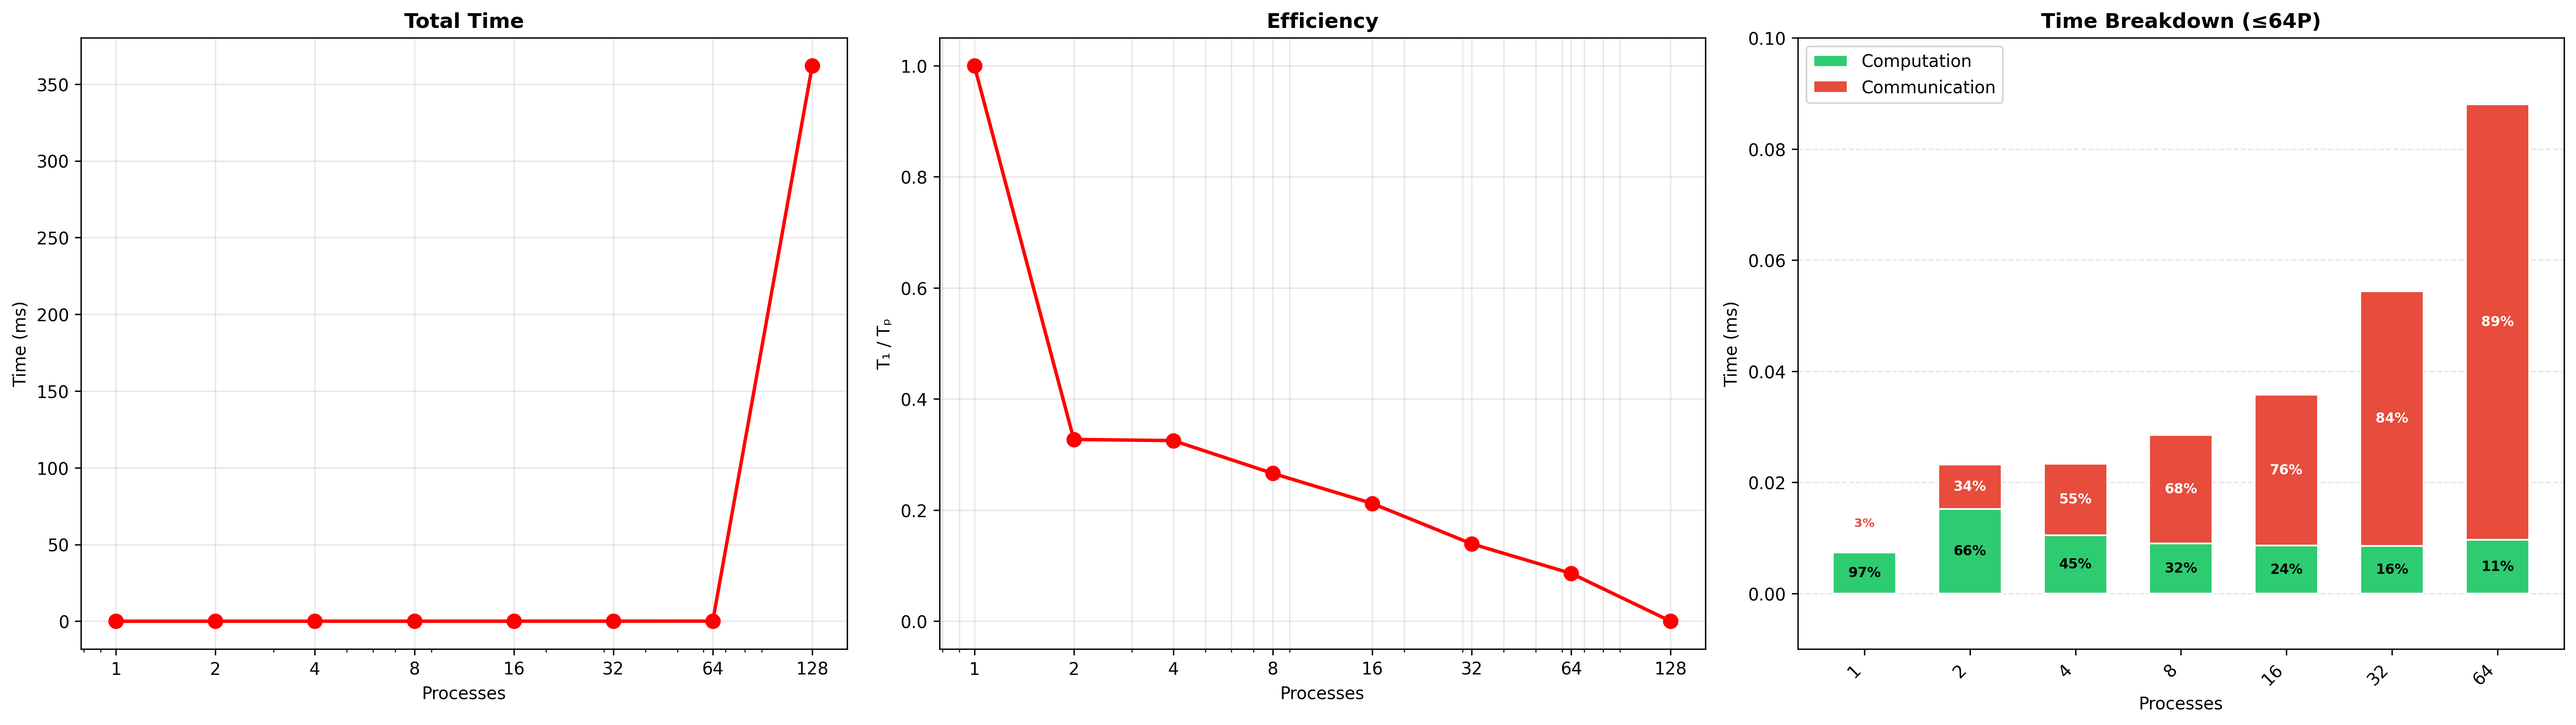
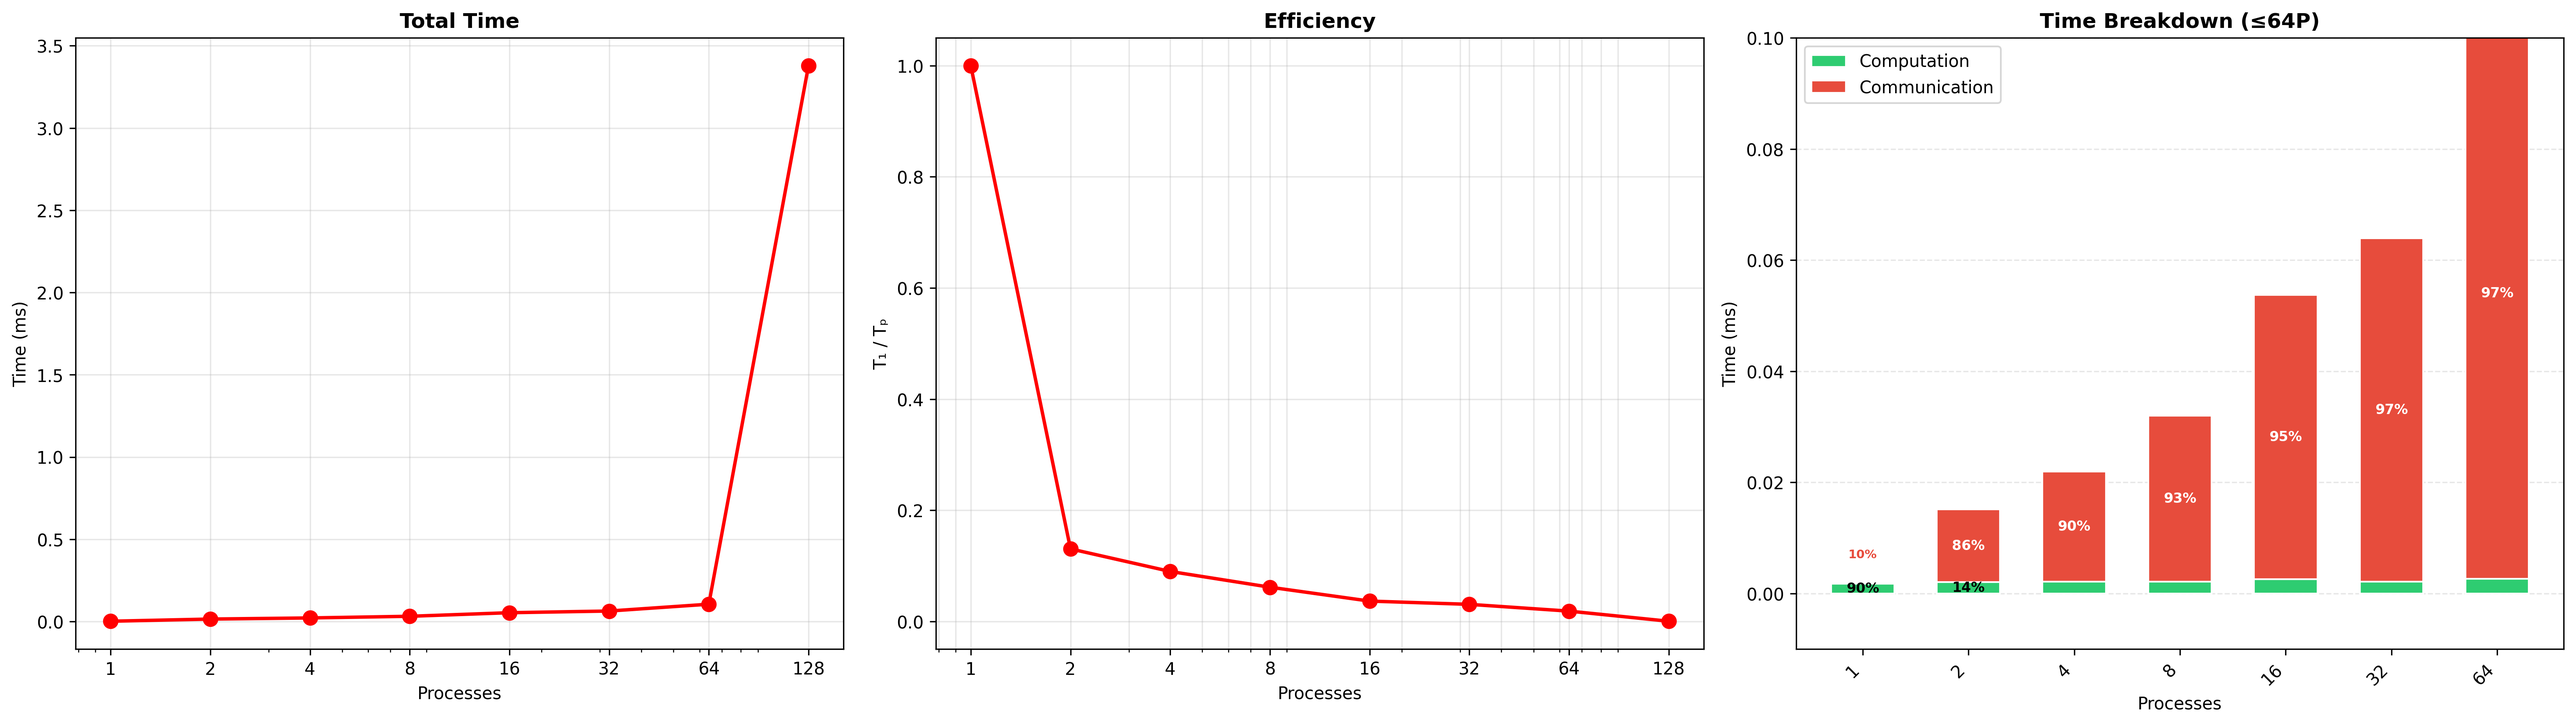
code optimization

diff --git a/D2/src/main.c b/D2/src/main.c
@@ -9,11 +9,27 @@
 #include <mpi.h>
 #include <time.h>
 
-int main(int argc, char *argv[]){
-    double start, end;
-    double time_comm = 0.0;
-    double time_comp = 0.0;
+// for qsort
+int compare_doubles(const void *a, const void *b) {
+    double diff = (*(double*)a - *(double*)b);
+    if (diff < 0) return -1;
+    if (diff > 0) return 1;
+    return 0;
+}
 
+// calculate percentile from sorted array 
+double percentile(double *sorted_array, int n, double p) {
+    double index = p * (n - 1);
+    int lower = (int)index;
+    int upper = lower + 1;
+    
+    if (upper >= n) return sorted_array[n-1];
+    
+    double weight = index - lower;
+    return sorted_array[lower] * (1.0 - weight) + sorted_array[upper] * weight;
+}
+
+int main(int argc, char *argv[]){
     int rank, size;
 
     MPI_Init(&argc, &argv);
@@ -80,42 +96,44 @@ int main(int argc, char *argv[]){
     
     MPI_Barrier(MPI_COMM_WORLD); 
 
+
+    int total_ghosts = ghost_get_total_ghosts(&gp);
+    double *x_extended = (double*)malloc((local.my_M + total_ghosts) * sizeof(double));
+
     // cache warmup
     int warmup = 3;
     for(int i=0; i<warmup; i++){
-        //old version 
-        // ghost_exchange_values(&gp, v_local, MPI_COMM_WORLD);
-        //ghost_local_SpMV_old(local.my_M, local.my_row_pnt, local.my_cols, local.my_vals, &gp, v_local, y);
-
-        //new
-        double *x_extended;
-        ghost_build_extended_vector(v_local, &x_extended, &gp, local.my_M, MPI_COMM_WORLD);
+        ghost_exchange_values(&gp, v_local, x_extended + local.my_M, MPI_COMM_WORLD);
+        memcpy(x_extended, v_local, local.my_M * sizeof(double));
         ghost_local_SpMV(&local_matrix, x_extended, y, local.my_M);
-        free(x_extended);
-    }   
+    }
     for(int row = 0; row < local.my_M; row++){
         y[row] = 0.0;
     }
 
     MPI_Barrier(MPI_COMM_WORLD); // sync before counting time
 
-    int iterations = 10;
+    int iterations = 100;
+    double start, end;
+    double *times_comm = (double*)malloc(iterations * sizeof(double));
+    double *times_comp = (double*)malloc(iterations * sizeof(double));
+
     for(int i=0; i<iterations; i++){
-        double *x_extended;
 
         GET_TIME(start);
-        ghost_build_extended_vector(v_local, &x_extended, &gp, local.my_M, MPI_COMM_WORLD);
+        ghost_exchange_values(&gp, v_local, x_extended + local.my_M, MPI_COMM_WORLD);
         GET_TIME(end);
 
-        time_comm += (end - start);
+        times_comm[i] = (end - start) * 1000.0;
+
+        // Copy local part
+        memcpy(x_extended, v_local, local.my_M * sizeof(double));
 
         GET_TIME(start);
         ghost_local_SpMV(&local_matrix, x_extended, y, local.my_M);
         GET_TIME(end);
 
-        time_comp += (end - start);
-
-        free(x_extended);
+        times_comp[i] = (end - start) * 1000.0;
     }
 
     double checksum = 0.0;
@@ -127,16 +145,19 @@ int main(int argc, char *argv[]){
 
     MPI_Barrier(MPI_COMM_WORLD);
 
-    double avg_comm = (time_comm * 1000.0) / iterations;
-    double avg_comp = (time_comp * 1000.0) / iterations;
+    qsort(times_comm, iterations, sizeof(double), compare_doubles);
+    qsort(times_comp, iterations, sizeof(double), compare_doubles);
+
+    double p90_comm = percentile(times_comm, iterations, 0.90);
+    double p90_comp = percentile(times_comp, iterations, 0.90);
 
     // Calculate the max time among all processes
     //MPI_Reduce( const void* sendbuf , void* recvbuf , MPI_Count count , MPI_Datatype datatype , MPI_Op op , int root , MPI_Comm comm);
 
     double max_comm = 0.0;
     double max_comp = 0.0;
-    MPI_Reduce(&avg_comm, &max_comm, 1, MPI_DOUBLE, MPI_MAX, 0, MPI_COMM_WORLD);
-    MPI_Reduce(&avg_comp, &max_comp, 1, MPI_DOUBLE, MPI_MAX, 0, MPI_COMM_WORLD);
+    MPI_Reduce(&p90_comm, &max_comm, 1, MPI_DOUBLE, MPI_MAX, 0, MPI_COMM_WORLD);
+    MPI_Reduce(&p90_comp, &max_comp, 1, MPI_DOUBLE, MPI_MAX, 0, MPI_COMM_WORLD);
 
     double local_mem = (local.my_nz * sizeof(double) + local.my_nz * sizeof(int) + (local.my_M+1) * sizeof(int) + local.my_M * sizeof(double)) / 1024.0 / 1024.0;
     double global_mem;
@@ -181,6 +202,9 @@ int main(int argc, char *argv[]){
     free(y);
     free(recvcounts_vec);
     free(displs_vec);
+    free(times_comm);
+    free(times_comp);
+    free(x_extended);
     MPI_Finalize();
     return 0;
 }

diff --git a/D2/src/ghost_entries.c b/D2/src/ghost_entries.c
@@ -128,37 +128,42 @@ void ghost_exchange_values(GhostPattern *gp, const double *x_local, double *x_gh
     
     MPI_Request *recv_reqs = (MPI_Request*)malloc(size * sizeof(MPI_Request));
     MPI_Request *send_reqs = (MPI_Request*)malloc(size * sizeof(MPI_Request));
+    double **send_bufs = (double**)malloc(size * sizeof(double*));  // Track buffers
     int n_recv = 0, n_send = 0;
     
-    // Post receives for ghost values
+    // Post receives
     for (int p = 0; p < size; p++) {
         if (p == rank || gp->need_count[p] == 0) continue;
-        
         int offset = gp->ghost_disp[p];
         int count = gp->need_count[p];
         MPI_Irecv(x_ghost_out + offset, count, MPI_DOUBLE, p, 0, comm, &recv_reqs[n_recv++]);
     }
     
-    // Send values needed by other processes
+    // Send values
     for (int p = 0; p < size; p++) {
         if (p == rank || gp->recv_count[p] == 0) continue;
         
         int count = gp->recv_count[p];
-        double *send_buf = (double*)malloc(count * sizeof(double));
+        send_bufs[n_send] = (double*)malloc(count * sizeof(double));
         
-        // Pack values that process p needs
         for (int i = 0; i < count; i++) {
             int global_idx = gp->send_idx_to[p][i];
-            int local_idx = global_idx / size;  // Convert global to local
-            send_buf[i] = x_local[local_idx];
+            int local_idx = global_idx / size;
+            send_bufs[n_send][i] = x_local[local_idx];
         }
         
-        MPI_Isend(send_buf, count, MPI_DOUBLE, p, 0, comm, &send_reqs[n_send++]);
+        MPI_Isend(send_bufs[n_send], count, MPI_DOUBLE, p, 0, comm, &send_reqs[n_send]);
+        n_send++;
     }
     
     MPI_Waitall(n_recv, recv_reqs, MPI_STATUSES_IGNORE);
     MPI_Waitall(n_send, send_reqs, MPI_STATUSES_IGNORE);
+
+    for (int i = 0; i < n_send; i++) {
+        free(send_bufs[i]);
+    }
     
+    free(send_bufs);
     free(recv_reqs);
     free(send_reqs);
 }
